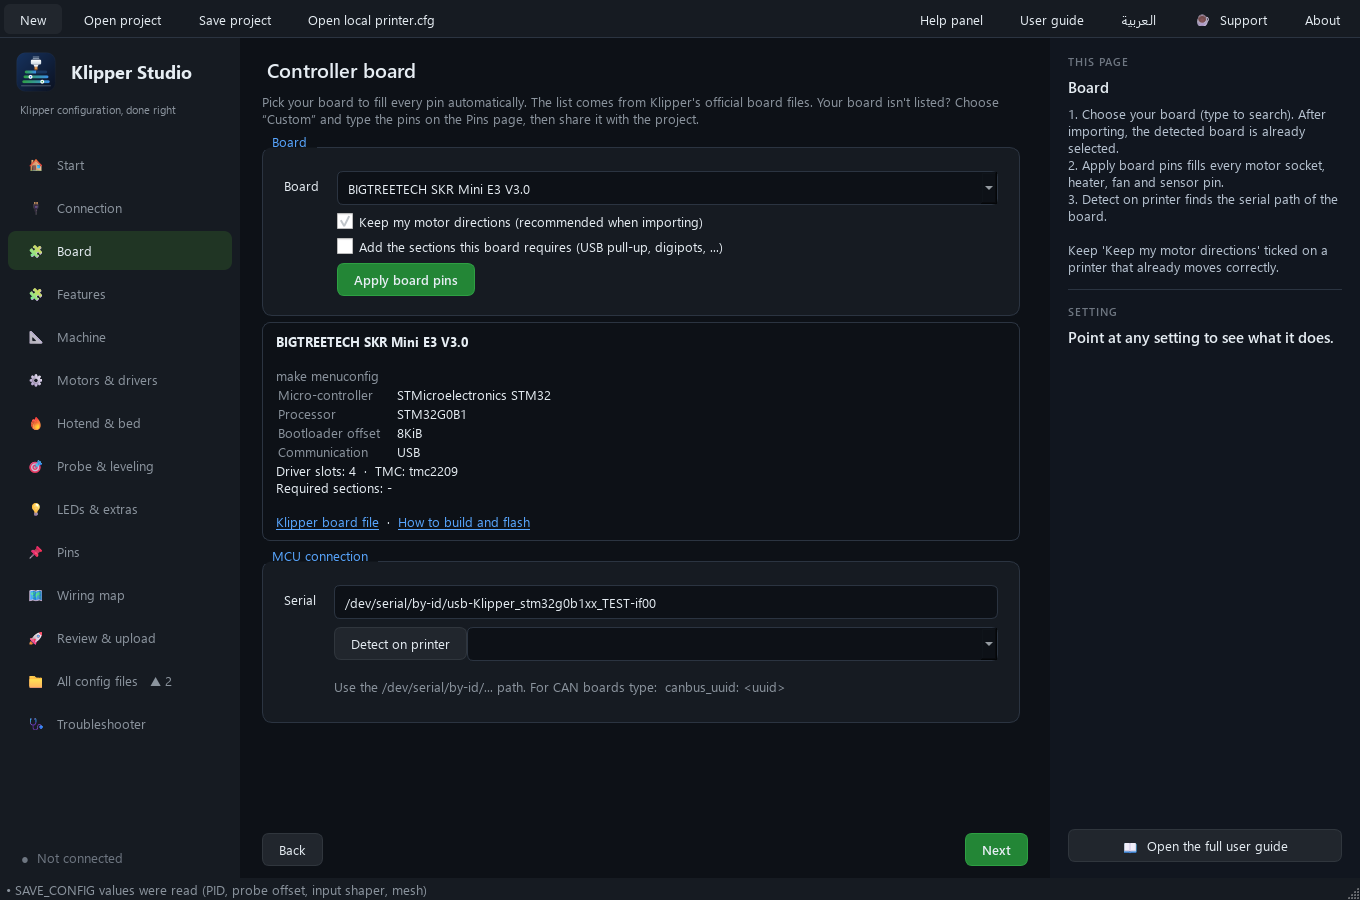
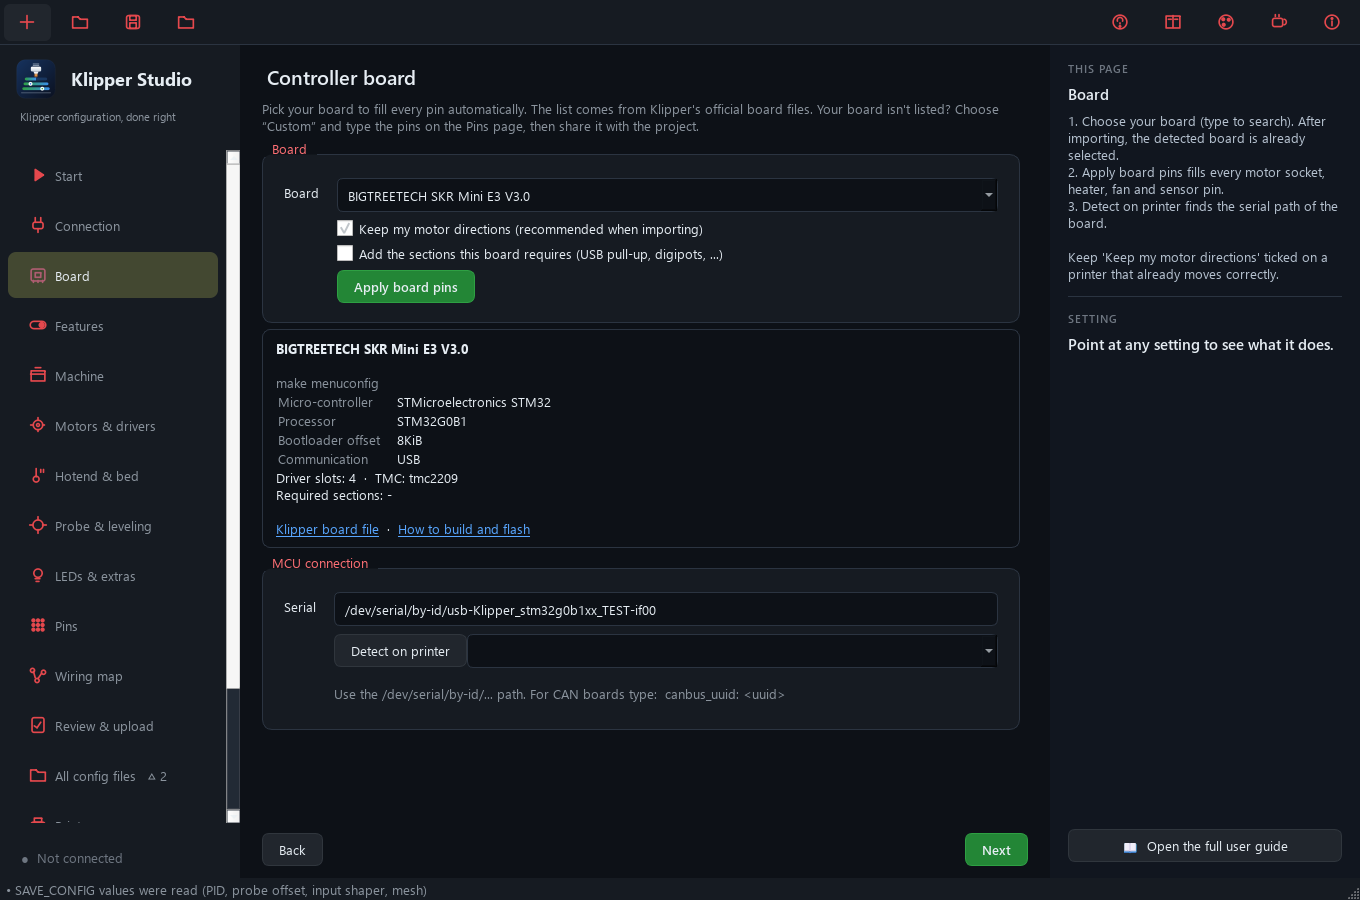
Beta 5: version, changelog, regenerated guide and screenshots

diff --git a/tools/demo_video.py b/tools/demo_video.py
@@ -82,9 +82,10 @@ AR = {
     "Uploading is the careful part": "الرفع هو الجزء اللي محتاج حرص",
     "Refused while printing, backed up on the printer and on your PC, FIRMWARE_RESTART, one-click restore.":
         "مرفوض أثناء الطباعة، نسخة احتياطية على الطابعة وعلى جهازك، FIRMWARE_RESTART، واسترجاع بضغطة واحدة.",
-    "Free for personal use": "مجاني للاستخدام الشخصي",
+    "Tested on a real printer": "مجرّب على طابعة حقيقية",
+    "Free software  ·  GPL-3.0": "برنامج حر  ·  GPL-3.0",
     "Windows: download KlipperStudio.exe and double-click": "ويندوز: نزّل KlipperStudio.exe ودوس عليه دبل كليك",
-    "English and Arabic": "بالعربي والإنجليزي",
+    "English and Arabic": "بالإنجليزي",
 }
 
 
@@ -364,8 +365,8 @@ def script(r, win, app):
            sub="Refused while printing, backed up on the printer and on your PC, FIRMWARE_RESTART, one-click restore.",
            seconds=3.4, do=upload, move_to=r.at(win.tabs, 0.5, 0.9))
 
-    r.card("Free for personal use", [REPO_URL, "Windows: download KlipperStudio.exe and double-click",
-                                     "", "%s  ·  %s" % (r.t("English and Arabic"), __version__)], logo=True, seconds=4.0)
+    r.card("Free software  ·  GPL-3.0", [REPO_URL, "Windows: download KlipperStudio.exe and double-click",
+                                     "", "%s  ·  %s" % (r.t("Tested on a real printer"), __version__)], logo=True, seconds=4.0)
 
 
 def encode(gif=False, fps=FPS, suffix=""):

diff --git a/studio/__init__.py b/studio/__init__.py
@@ -4,7 +4,7 @@ import os
 import sys
 
 APP_NAME = "ATGENX Klipper Studio"
-__version__ = "1.0.0-beta.4"
+__version__ = "1.0.0-beta.5"
 LICENSE_NAME = "GNU GPL v3.0 or later"
 REPO_URL = "https://github.com/ARDUTECH0/ATGENX-Klipper-Studio"
 SUPPORT_URL = "https://buymeacoffee.com/seifemadatv"

diff --git a/CHANGELOG.md b/CHANGELOG.md
@@ -1,11 +1,51 @@
 # Changelog
 
-## Unreleased
+## 1.0.0-beta.5 - 2026-09-18
+
+**Tested on a real printer for the first time** - an SKR 1.4 Turbo running Klipper v0.13.0, backed up first:
+28 checks, none failed. Importing the real 52 KB `printer.cfg` with its includes and `SAVE_CONFIG` rewrote
+**0 lines** when nothing was edited, and all 52 macros and 3,962 comments survived untouched. A real upload
+made its backup on the printer, ran `FIRMWARE_RESTART`, waited for Klipper to come back, and left the file
+byte-identical. A gcode file went up at 1.4 MB/s with live progress and was skipped on the second run.
 
 ### License
-- The project is now **GNU GPL v3.0 or later**, replacing PolyForm Noncommercial. It is free
-  software: use it, change it, share it, sell it - as long as what you pass on stays GPL with
-  its source. This is what was promised to the community when they asked.
+- The project is now **GNU GPL v3.0 or later**, replacing PolyForm Noncommercial. Free software: use it,
+  study it, change it, share it, sell it - as long as what you pass on stays GPL and ships its source.
+  No warranty.
+
+### Printers (new page)
+- Add, edit, remove and reorder your machines. Each one can override the Moonraker port, the SSH port, the
+  API key and the folder its files go into.
+- **Send the same files to every printer at once**, one thread each, with a progress bar, transfer speed and
+  time left per printer, and a colour-coded log of what happened.
+- **Dry run** connects, compares every file and reports what it would send, replace or skip - and writes nothing.
+- Files already on the printer with the same size are skipped, unless you turn that off.
+- **A file that is printing, or waiting in Moonraker's queue, is never overwritten and never deleted.** It is
+  skipped and listed for you to handle yourself.
+
+### Printer files (new page)
+- Browse what is on a printer: folders, sizes, and the thumbnail the slicer embedded in each gcode, pulled
+  from `.thumbs/`. Hover a file to see it bigger.
+- Select several files - or a whole folder - and delete them in one go, with the protected ones refused.
+
+### Look
+- One **accent colour** drives the whole window, with six presets and a colour picker. The default is red.
+- **Every emoji is gone.** The sidebar and toolbar icons are drawn in code, so they follow the accent colour
+  and look the same on every machine, with nothing extra to ship.
+
+### English only
+- The language switch has been removed and the app starts in English. The Arabic strings are still in the
+  code and can be reached with `python -m studio --lang ar`.
+
+### Fixes
+- The wiring map no longer reports a problem for a section that is switched off: a commented-out `[adxl345]`
+  pointing at a commented-out `[mcu pico]` is correct, not an error. Found on a real printer.
+- **Fit to window** centres on the diagram instead of the origin, so devices are no longer cut off.
+- The motors table no longer truncates the driver socket column.
+
+### Testing
+- 55 unit tests and 56 end-to-end checks against a fake Moonraker, plus the live run above.
+- `tests/test_fleet.py` covers the printer list, the sync engine, dry run, and the print-safety rules.
 
 ## 1.0.0-beta.4 - 2026-09-17
 

diff --git a/docs/GUIDE.md b/docs/GUIDE.md
@@ -1,6 +1,6 @@
 # Klipper Studio - User guide
 
-This guide explains every page and every setting of Klipper Studio 1.0.0-beta.4, and walks through the most common tasks. The same explanations appear inside the app in the help panel on the right - point at any setting to read them.
+This guide explains every page and every setting of Klipper Studio 1.0.0-beta.5, and walks through the most common tasks. The same explanations appear inside the app in the help panel on the right - point at any setting to read them.
 
 ## Contents
 
@@ -287,6 +287,26 @@ Smart merge keeps your file and changes only what's needed. Clean new file rewri
 ### All config files
 
 All files of the printer. Click a file or a section in the tree, edit, then Save to printer. A backup is made first and only the matching service restarts (Klipper for .cfg, Moonraker for moonraker.conf...).
+
+### Printers
+
+Your printers, and sending the same files to all of them at once.  
+1. Add printer: name, address, and - if they are not the usual ones - the Moonraker port, the SSH port and the folder its files go into.  
+2. Tick the printers you want, add files or a whole folder, and press Sync.  
+3. Each printer gets its own progress bar with speed and time left, and the log says what happened.  
+  
+Dry run does everything except write. A file that is printing or waiting in the queue is never overwritten - it is skipped and listed for you.
+
+| Setting | What it does | In printer.cfg |
+|---|---|---|
+| **fleet.dry_run** | Runs the whole sync without writing anything: it connects, compares every file and tells you what it would send, replace or skip. Use it the first time you point the app at a printer you care about. |  |
+| **fleet.skip_same** | A file already on the printer with exactly the same size is left alone. Turn this off to send everything again, for example after re-slicing with the same file names. |  |
+
+### Printer files
+
+What is on a printer right now. Double-click a folder to open it, hover a file to see the thumbnail the slicer put in it, and select files to delete them.  
+  
+Anything printing or queued is marked and cannot be deleted.
 
 ### Troubleshooter
 

diff --git a/docs/GUIDE.ar.md b/docs/GUIDE.ar.md
@@ -2,7 +2,7 @@
 
 # Klipper Studio - دليل الاستخدام
 
-الدليل ده بيشرح كل صفحة وكل إعداد في Klipper Studio 1.0.0-beta.4، وبيمشي معاك خطوة بخطوة في أشهر المهام. نفس الشرح موجود جوه البرنامج في لوحة الشرح على اليمين - قف بالماوس على أي إعداد عشان تقراه.
+الدليل ده بيشرح كل صفحة وكل إعداد في Klipper Studio 1.0.0-beta.5، وبيمشي معاك خطوة بخطوة في أشهر المهام. نفس الشرح موجود جوه البرنامج في لوحة الشرح على اليمين - قف بالماوس على أي إعداد عشان تقراه.
 
 ## المحتويات
 
@@ -289,6 +289,19 @@ python -m studio --lang ar
 ### كل ملفات الإعداد
 
 كل ملفات الطابعة. اضغط على ملف أو قسم في الشجرة، عدّل، وبعدين «حفظ على الطابعة». بيتعمل نسخة احتياطية الأول وبيتعمل إعادة تشغيل للخدمة المناسبة بس (كليبر لملفات .cfg، و Moonraker لـ moonraker.conf...).
+
+### Printers
+
+طابعاتك، وإرسال نفس الملفات لكلها في نفس الوقت. جرب Dry run الأول.
+
+| الإعداد | بيعمل إيه | في printer.cfg |
+|---|---|---|
+| **fleet.dry_run** | بيشغل العملية كلها من غير ما يكتب حاجة: بيتصل ويقارن كل ملف ويقولك هيبعت إيه. |  |
+| **fleet.skip_same** | الملف الموجود على الطابعة بنفس الحجم بيتساب زي ما هو. اقفلها عشان يبعت كل حاجة تاني. |  |
+
+### Printer files
+
+اللي موجود على الطابعة دلوقتي. اللي بيتطبع محمي.
 
 ### حل المشاكل
 
